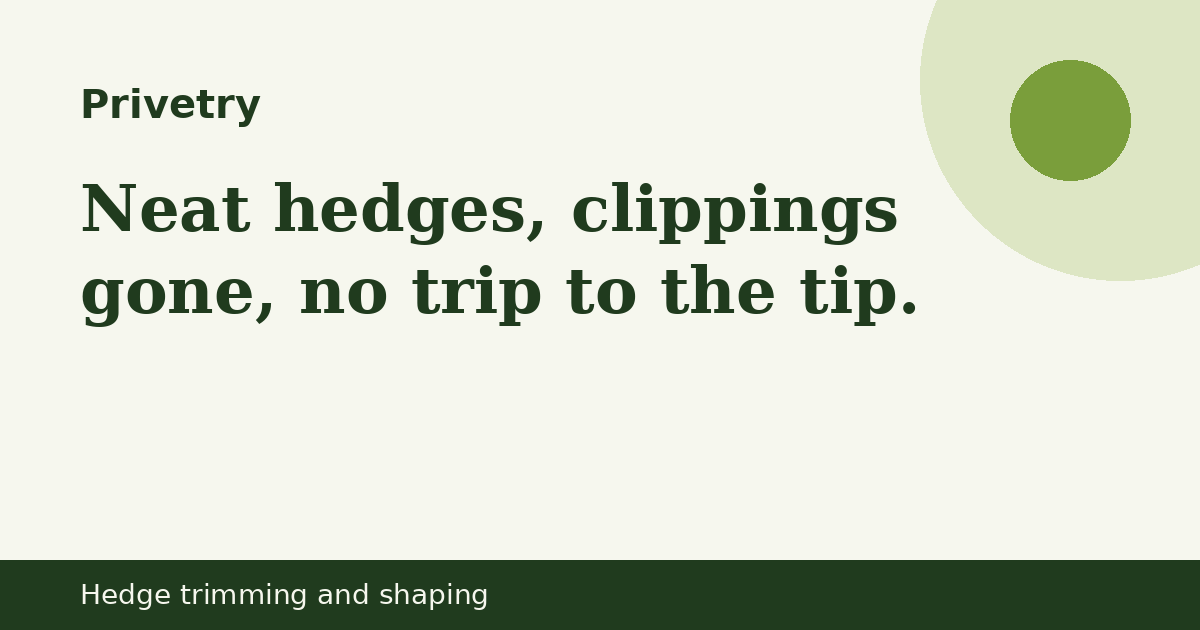
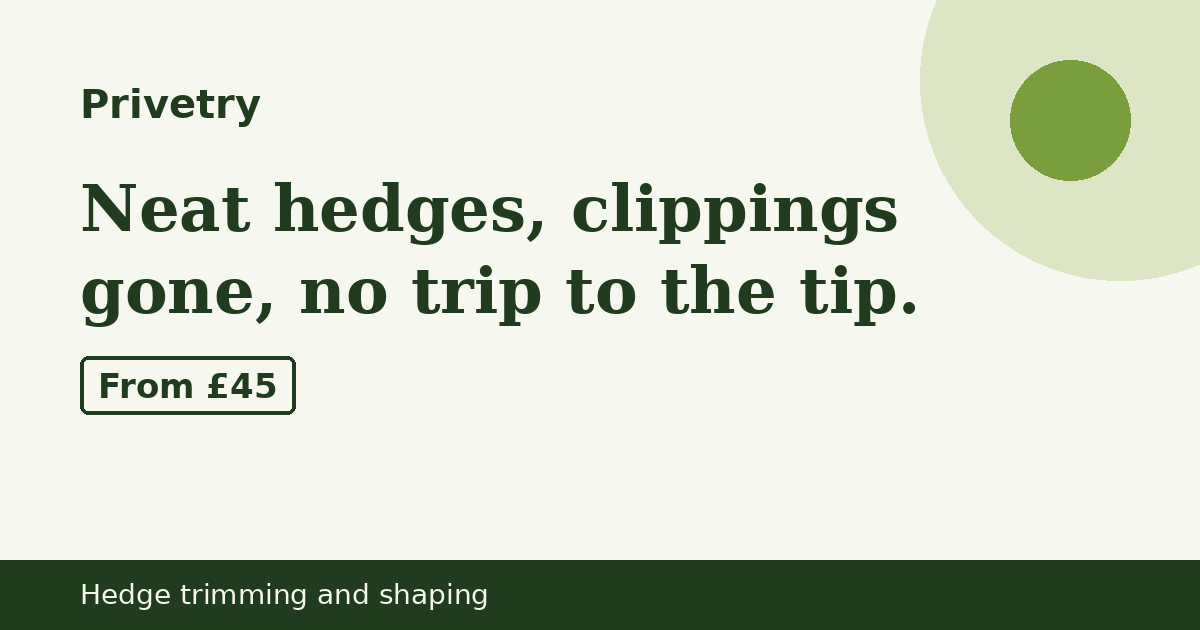
Publish site 2026-10-21 08:29 BST

Changed region(s): [[0.0617, 0.5429, 0.2467, 0.6635]]

diff --git a/index.html b/index.html
@@ -3,7 +3,7 @@
 <head>
 <meta charset="utf-8">
 <meta name="viewport" content="width=device-width, initial-scale=1">
-<meta http-equiv="Content-Security-Policy" content="default-src 'self'; img-src 'self' data: https://localreplyloop.goatcounter.com; style-src 'self'; script-src 'self'; font-src 'self'; connect-src 'self' https://formsubmit.co; form-action 'self'; base-uri 'self'; object-src 'none'">
+<meta http-equiv="Content-Security-Policy" content="default-src 'self'; img-src 'self' data: https://localreplyloop.goatcounter.com; style-src 'self'; script-src 'self'; font-src 'self'; connect-src 'self'; form-action 'self'; base-uri 'self'; object-src 'none'">
 <meta name="referrer" content="strict-origin-when-cross-origin">
 <title>Privetry: Neat hedges, clippings gone, no trip to the tip</title>
 <meta name="description" content="Hedge trimming, reducing and shaping, with all clippings taken away the same day.">
@@ -21,21 +21,14 @@
 </head>
 <body>
 <a class="skip" href="#main">Skip to content</a>
-<header><div class="wrap top"><a class="brand" href="./"><svg viewBox="0 0 64 64" aria-hidden="true" width="34" height="34"><rect width="64" height="64" rx="16" fill="#203B1E"/><text x="32" y="43" text-anchor="middle" font-family="Georgia, serif" font-weight="700" font-size="30" fill="#F6F7EE">P</text><circle cx="50" cy="50" r="6" fill="#7A9E3B"/></svg>Privetry</a><nav aria-label="Primary"><a href="#how">How it works</a><a href="#faq">Questions</a><a href="#contact">Contact</a></nav></div></header><section class="hero"><div class="wrap"><div class="art"><svg viewBox="0 0 400 400" role="img" aria-label="Decorative pattern" class="motif" preserveAspectRatio="xMidYMid slice"><rect x="0" y="40" width="30" height="260" rx="15" fill="#DDE6C4"/><rect x="46" y="40" width="30" height="220" rx="15" fill="#203B1E"/><rect x="92" y="40" width="30" height="200" rx="15" fill="#7A9E3B"/><rect x="138" y="100" width="30" height="260" rx="15" fill="#203B1E"/><rect x="184" y="130" width="30" height="280" rx="15" fill="#DDE6C4"/><rect x="230" y="160" width="30" height="240" rx="15" fill="#203B1E"/><rect x="276" y="160" width="30" height="220" rx="15" fill="#7A9E3B"/><rect x="322" y="100" width="30" height="200" rx="15" fill="#203B1E"/><rect x="368" y="70" width="30" height="200" rx="15" fill="#DDE6C4"/></svg></div><span class="draft">Taking enquiries ahead of launch; no bookings are confirmed yet. We&#x27;ll reply about availability.</span><br><span class="eyebrow">Local service · pre-launch · Hedge trimming and shaping</span><h1>Neat hedges, clippings gone, no trip to the tip.</h1><p class="lede">Send us a couple of photos and rough lengths. We quote a fixed price, trim to the height and shape you want, and take every clipping away with us.</p><div class="ctas"><a class="btn" href="#contact" data-cta="hero">Send an enquiry</a><a class="btn ghost" href="#faq" data-cta="hero-secondary">Questions</a></div></div></section>
+<header><div class="wrap top"><a class="brand" href="./"><svg viewBox="0 0 64 64" aria-hidden="true" width="34" height="34"><rect width="64" height="64" rx="16" fill="#203B1E"/><text x="32" y="43" text-anchor="middle" font-family="Georgia, serif" font-weight="700" font-size="30" fill="#F6F7EE">P</text><circle cx="50" cy="50" r="6" fill="#7A9E3B"/></svg>Privetry</a><nav aria-label="Primary"><a href="#how">How it works</a><a href="#faq">Questions</a><a href="#contact">Contact</a></nav></div></header>
 <main id="main">
-<section class="tint" id="how"><div class="wrap"><span class="eyebrow">How it works</span><h2>Hedge trimming, reducing and shaping, with all clippings taken away the same day.</h2><div class="steps"><div class="step"><h3>Send photos</h3><p>Two or three phone photos and the rough length of each hedge.</p></div><div class="step"><h3>Fixed quote back</h3><p>Price includes clippings removed. No surprises on the day.</p></div><div class="step"><h3>Trimmed and tidied</h3><p>Once launched, we sweep paths and lawns before we leave.</p></div></div></div></section>
-<section><div class="wrap"><span class="eyebrow">Who it is for</span><h2>For homeowners with hedges that have got away from them, including older residents.</h2><div class="points"><div class="point"><h3>Clippings removed</h3><p>Taken away the same day, disposed of as garden waste.</p></div><div class="point"><h3>Nesting season respected</h3><p>We check for active nests before cutting, as the law requires, and pause if we find one.</p></div><div class="point"><h3>Height you choose</h3><p>Tidy-up, reduce, or reshape. We&#x27;ll say if a big reduction is better split over two visits.</p></div></div></div></section>
-<section class="tint" id="price"><div class="wrap"><span class="eyebrow">Prices</span><div class="pricebox"><p class="price">From £45 for a short garden hedge (guide price; we quote from photos)</p><p>Guide price. Taking enquiries ahead of launch; no bookings are confirmed yet. We&#x27;ll confirm a fixed price and availability by email. Nothing is sold or paid for on this website.</p></div></div></section>
+<section class="hero"><div class="wrap"><div class="art"><svg viewBox="0 0 400 400" aria-hidden="true" focusable="false" class="motif"><rect x="40" y="180" width="320" height="180" rx="30" fill="#203B1E"/><path d="M40 200 q40 -60 80 0 q40 -60 80 0 q40 -60 80 0 q40 -60 80 0 v20 h-320z" fill="#203B1E"/><rect x="60" y="220" width="280" height="10" rx="5" fill="#DDE6C4"/><path d="M210 40 l70 90 -14 10 -70 -90z" fill="#7A9E3B"/><path d="M300 40 l-70 90 14 10 70 -90z" fill="#7A9E3B"/><circle cx="256" cy="140" r="22" fill="#DDE6C4"/><circle cx="256" cy="140" r="10" fill="#203B1E"/></svg></div><span class="draft">Taking enquiries ahead of launch. No bookings are confirmed yet.</span><br><span class="eyebrow">Local service · pre-launch · Hedge trimming and shaping</span><h1>Neat hedges, clippings gone, no trip to the tip.</h1><p class="lede">Send us a couple of photos and rough lengths. We quote a fixed price. Once launched, we&#x27;ll trim to the height and shape you want and bag every clipping.</p><div class="ctas"><a class="btn" href="#contact" data-cta="hero">Send an enquiry</a><a class="btn ghost" href="#faq" data-cta="hero-secondary">Questions</a></div></div></section>
+<section class="tint" id="how"><div class="wrap"><span class="eyebrow">How it works</span><h2>Hedge trimming, reducing and shaping, with all clippings taken away the same day.</h2><div class="steps"><div class="step"><h3>Send photos</h3><p>Two or three phone photos and the rough length of each hedge.</p></div><div class="step"><h3>Fixed quote back</h3><p>Price includes bagging clippings. No surprises on the day.</p></div><div class="step"><h3>Trimmed and tidied</h3><p>Once launched, we sweep paths and lawns before we leave.</p></div></div></div></section>
+<section><div class="wrap"><span class="eyebrow">Who it is for</span><h2>For homeowners with hedges that have got away from them, including older residents.</h2><div class="points"><div class="point"><h3>Clippings removed</h3><p>Once we&#x27;re registered as a waste carrier, we&#x27;ll take clippings away. Until then, we bag them for your garden waste bin or compost.</p></div><div class="point"><h3>Nesting season respected</h3><p>We check for active nests before cutting, as the law requires, and pause if we find one.</p></div><div class="point"><h3>Height you choose</h3><p>Tidy-up, reduce, or reshape. We&#x27;ll say if a big reduction is better split over two visits.</p></div></div></div></section>
+<section class="tint" id="price"><div class="wrap"><span class="eyebrow">Prices</span><div class="pricebox"><p class="price">From £45 for a short garden hedge (guide price; we quote from photos)</p><p>Guide price. Taking enquiries ahead of launch. No bookings are confirmed yet. Price and availability aren’t confirmed yet. Nothing is sold or paid for on this website.</p></div></div></section>
 <section id="faq"><div class="wrap"><span class="eyebrow">Questions</span><h2>Common questions</h2><details><summary>Can you cut my neighbour&#x27;s side?</summary><p>Only with their permission. We can give you a joint quote if you both agree.</p></details><details><summary>Do you cut trees?</summary><p>No. Hedges and shrubs only. For trees, use a qualified arborist.</p></details><details><summary>What about bird nests?</summary><p>If we find an active nest we stop work on that section and come back later at no extra charge.</p></details><p class="fine" style="margin-top:18px">Privetry trims hedges and shrubs. We do not carry out tree surgery or work near power lines.</p></div></section>
-<section class="tint" id="contact"><div class="wrap contact-grid"><div><span class="eyebrow">Contact</span><h2>Send an enquiry</h2><p>Privetry is new and run by one person. Every message is read and answered by email, usually within two working days.</p><p>Email: <a href="mailto:localreply+privetry@agentmail.to">localreply+privetry@agentmail.to</a></p></div><form class="form" data-contact data-formsubmit="localreply+privetry@agentmail.to" data-email="localreply+privetry@agentmail.to" data-subject="Privetry enquiry" novalidate>
-<div><label for="f-name">Your name</label><input id="f-name" name="name" autocomplete="name" required></div>
-<div><label for="f-email">Email</label><input id="f-email" name="email" type="email" autocomplete="email" required></div>
-<div><label for="f-postcode">Postcode or town</label><input id="f-postcode" name="postcode" autocomplete="postal-code"></div><div><label for="f-plan">About</label><select id="f-plan" name="plan"><option value="Trim and tidy">Trim and tidy</option><option value="Height reduction">Height reduction</option><option value="Regular visits">Regular visits</option></select></div>
-<div><label for="f-message">Message</label><textarea id="f-message" name="message"></textarea></div>
-<p class="draft">Taking enquiries ahead of launch; no bookings are confirmed yet. We&#x27;ll reply about availability.</p><p class="hint">Your message goes to our inbox through FormSubmit (formsubmit.co), our form-delivery provider. If that fails, your own email app opens instead. See our <a href="privacy.html">privacy notice</a>.</p>
-<button class="btn" type="submit">Send an enquiry</button>
-<p class="form-status" role="status" aria-live="polite"></p>
-</form></div></section>
+<section class="tint" id="contact"><div class="wrap contact-grid"><div><span class="eyebrow">Contact</span><h2>Send an enquiry</h2><p>Privetry is new and run by one person. Messages go to our inbox. We can’t promise a reply or a timeframe yet.</p><p>Email: <a href="mailto:localreply+privetry@agentmail.to">localreply+privetry@agentmail.to</a></p></div><div class="form contact-mail"><p><a class="btn" href="mailto:localreply+privetry@agentmail.to?subject=%5BPrivetry%5D%20Enquiry" data-cta="enquire">Email Privetry</a></p><p class="draft">Taking enquiries ahead of launch. No bookings are confirmed yet.</p><p class="hint">This opens your own email app. Nothing is sent through this website. See our <a href="privacy.html">privacy notice</a>.</p></div></div></section>
 </main><footer><div class="wrap"><p>Operated by a UK sole trader trading as Privetry. Contact: localreply+privetry@agentmail.to. Postal address available on written request.</p>
 <p><a href="privacy.html">Privacy</a><a href="terms.html">Terms</a><a href="./#contact">Contact</a></p>
 <p class="fine">Privetry trims hedges and shrubs. We do not carry out tree surgery or work near power lines.</p></div></footer>

diff --git a/privacy.html b/privacy.html
@@ -3,7 +3,7 @@
 <head>
 <meta charset="utf-8">
 <meta name="viewport" content="width=device-width, initial-scale=1">
-<meta http-equiv="Content-Security-Policy" content="default-src 'self'; img-src 'self' data: https://localreplyloop.goatcounter.com; style-src 'self'; script-src 'self'; font-src 'self'; connect-src 'self' https://formsubmit.co; form-action 'self'; base-uri 'self'; object-src 'none'">
+<meta http-equiv="Content-Security-Policy" content="default-src 'self'; img-src 'self' data: https://localreplyloop.goatcounter.com; style-src 'self'; script-src 'self'; font-src 'self'; connect-src 'self'; form-action 'self'; base-uri 'self'; object-src 'none'">
 <meta name="referrer" content="strict-origin-when-cross-origin">
 <title>Privacy notice | Privetry</title>
 <meta name="description" content="Privacy notice for Privetry.">
@@ -21,13 +21,13 @@
 </head>
 <body>
 <a class="skip" href="#main">Skip to content</a>
-<header><div class="wrap top"><a class="brand" href="./"><svg viewBox="0 0 64 64" aria-hidden="true" width="34" height="34"><rect width="64" height="64" rx="16" fill="#203B1E"/><text x="32" y="43" text-anchor="middle" font-family="Georgia, serif" font-weight="700" font-size="30" fill="#F6F7EE">P</text><circle cx="50" cy="50" r="6" fill="#7A9E3B"/></svg>Privetry</a><nav aria-label="Primary"><a href="#how">How it works</a><a href="#faq">Questions</a><a href="#contact">Contact</a></nav></div></header><main id="main"><section><div class="wrap legal"><h1>Privacy notice</h1><p class="fine">Last updated 19 October 2026</p>
+<header><div class="wrap top"><a class="brand" href="./"><svg viewBox="0 0 64 64" aria-hidden="true" width="34" height="34"><rect width="64" height="64" rx="16" fill="#203B1E"/><text x="32" y="43" text-anchor="middle" font-family="Georgia, serif" font-weight="700" font-size="30" fill="#F6F7EE">P</text><circle cx="50" cy="50" r="6" fill="#7A9E3B"/></svg>Privetry</a><nav aria-label="Primary"><a href="#how">How it works</a><a href="#faq">Questions</a><a href="#contact">Contact</a></nav></div></header><main id="main"><section><div class="wrap legal"><h1>Privacy notice</h1><p class="fine">Last updated 20 October 2026</p>
 <p><span>Operated by a UK sole trader trading as Privetry. Contact: localreply+privetry@agentmail.to. Postal address available on written request.</span> We are the controller for the personal data described here. For anything in this notice, email <a href="mailto:localreply+privetry@agentmail.to">localreply+privetry@agentmail.to</a> with “Privetry” in the subject line.</p>
-<h2>What we collect</h2><p>If you use the form or email us, we receive your name, email address, anything you write in your message and, if you give it, your postcode or town. We use it only to reply to you and, if you ask for it, to deal with your enquiry.</p>
+<h2>What we collect</h2><p>If you email us, we receive your name, email address, anything you write in your message and, if you give it, your postcode or town. We use it only to reply to you and, if you ask for it, to deal with your enquiry.</p>
 <h2>Lawful basis</h2><p>Replying to an enquiry you send us is in our legitimate interests, or steps taken at your request before any agreement (UK GDPR Article 6(1)(f) and 6(1)(b)).</p>
-<h2>Who processes it for us</h2><p>FormSubmit (formsubmit.co) delivers form messages to our inbox. AgentMail (agentmail.to) hosts the inbox. GitHub Pages hosts this website and may log technical data such as IP addresses for security. Some of these providers process data outside the UK under their own safeguards.</p>
+<h2>Who processes it for us</h2><p>AgentMail (agentmail.to) hosts our inbox. GitHub Pages hosts this website and may log technical data such as IP addresses for security. Some of these providers process data outside the UK under their own safeguards.</p>
 <h2>Cookies and analytics</h2><p>We set no cookies. We count page views with GoatCounter, which records the page, referrer and screen size but no cookies and no personal profile. It does not run if your browser sends Do Not Track or Global Privacy Control.</p>
-<h2>How long we keep it</h2><p>We keep enquiry emails for up to 12 months after our last contact, unless you become a customer, in which case we keep records as the law requires.</p>
+<h2>How long we keep it</h2><p>We delete enquiry and order data 30 days after our last contact or after delivery. We keep only the basic order record that tax law requires.</p>
 <h2>Your rights</h2><p>You can ask for a copy of your data, ask us to correct or delete it, or object to how we use it, by emailing <a href="mailto:localreply+privetry@agentmail.to">localreply+privetry@agentmail.to</a>. You can complain to the Information Commissioner's Office (ico.org.uk).</p></div></section></main><footer><div class="wrap"><p>Operated by a UK sole trader trading as Privetry. Contact: localreply+privetry@agentmail.to. Postal address available on written request.</p>
 <p><a href="privacy.html">Privacy</a><a href="terms.html">Terms</a><a href="./#contact">Contact</a></p>
 <p class="fine">Privetry trims hedges and shrubs. We do not carry out tree surgery or work near power lines.</p></div></footer>

diff --git a/assets/site.css b/assets/site.css
@@ -1,4 +1,4 @@
-:root{--ink:#203B1E;--paper:#F6F7EE;--acc:#7A9E3B;--acc-text:#58722A;--on-acc:#111111;--soft:#DDE6C4;--on-ink:#F6F7EE;--r:22px;--br:22px;--head:Georgia, 'Times New Roman', serif;--body:system-ui, -apple-system, 'Segoe UI', Roboto, sans-serif}
+:root{--ink:#203B1E;--paper:#F6F7EE;--acc:#7A9E3B;--acc-text:#536B28;--on-acc:#111111;--acc-btn:#7A9E3B;--soft:#DDE6C4;--on-ink:#F6F7EE;--r:22px;--br:22px;--head:Georgia, 'Times New Roman', serif;--body:system-ui, -apple-system, 'Segoe UI', Roboto, sans-serif}
 *,*::before,*::after{box-sizing:border-box}html{scroll-behavior:smooth}@media (prefers-reduced-motion:reduce){html{scroll-behavior:auto}*{transition:none!important}}
 body{margin:0;font-family:var(--body);color:var(--ink);background:var(--paper);line-height:1.6;font-size:17px;-webkit-font-smoothing:antialiased}
 h1,h2,h3{font-family:var(--head);line-height:1.15;margin:0 0 .5em;letter-spacing:-.01em}h1{font-size:clamp(2.1rem,5vw,3.6rem)}h2{font-size:clamp(1.5rem,3vw,2.2rem)}h3{font-size:1.15rem}
@@ -7,11 +7,11 @@ p{margin:0 0 1em}a{color:var(--ink);text-decoration-color:var(--acc);text-underl
 :focus-visible{outline:3px solid var(--acc);outline-offset:2px}
 .top{display:flex;align-items:center;justify-content:space-between;padding:18px 0;gap:16px}.brand{display:flex;align-items:center;gap:10px;font-family:var(--head);font-weight:700;font-size:1.25rem;text-decoration:none}
 .top nav a{margin-left:18px;font-size:.95rem;text-decoration:none}.top nav a:hover{text-decoration:underline}
-.btn{display:inline-block;background:var(--acc);color:var(--on-acc);padding:13px 22px;border-radius:var(--br);font-weight:600;text-decoration:none;border:2px solid var(--acc);cursor:pointer;font:inherit;font-weight:600}
-.btn:hover{filter:brightness(.94)}.btn.ghost{background:transparent;color:var(--ink);border-color:var(--ink)}
+.btn{display:inline-block;background:var(--acc-btn);color:var(--on-acc);padding:13px 22px;border-radius:var(--br);font-weight:600;text-decoration:none;border:2px solid var(--acc-btn);cursor:pointer;font:inherit;font-weight:600}
+.btn:hover{filter:none;box-shadow:inset 0 0 0 2px currentColor}.btn.ghost{background:transparent;color:var(--ink);border-color:var(--ink)}
 .eyebrow{display:inline-block;font-size:.8rem;letter-spacing:.12em;text-transform:uppercase;font-weight:600;color:var(--acc-text);margin-bottom:12px}
 .hero{padding:48px 0 64px}.hero .lede{font-size:1.15rem;max-width:40em}.ctas{display:flex;gap:12px;flex-wrap:wrap;margin-top:22px}
-.motif{width:100%;height:auto;max-width:420px;display:block}
+.motif{width:100%;height:auto;max-width:420px;display:block}.art{margin:0}
 .draft{display:inline-block;background:var(--soft);border:1px dashed var(--ink);padding:3px 10px;border-radius:999px;font-size:.82rem;font-weight:600;margin-bottom:14px}
 section{padding:56px 0}.tint{background:var(--soft)}
 .steps{display:grid;grid-template-columns:repeat(auto-fit,minmax(220px,1fr));gap:22px;counter-reset:s}
@@ -22,8 +22,8 @@ section{padding:56px 0}.tint{background:var(--soft)}
 details{border-bottom:1px solid color-mix(in srgb,var(--ink) 18%,transparent);padding:14px 0}summary{cursor:pointer;font-weight:600}details p{margin-top:10px}
 .form{display:grid;gap:14px;max-width:620px}.form label{font-weight:600;font-size:.95rem;display:block;margin-bottom:4px}
 .form input,.form textarea,.form select{width:100%;padding:12px;border:1.5px solid color-mix(in srgb,var(--ink) 40%,transparent);border-radius:calc(var(--r)/2);font:inherit;background:#fff;color:#111}
-.form textarea{min-height:120px}.hint,.fine{font-size:.88rem;opacity:.85}.form-status{font-weight:600}
-.contact-grid{display:grid;grid-template-columns:1fr 1.2fr;gap:40px}@media(max-width:800px){.contact-grid{grid-template-columns:1fr}.top nav{display:none}}
+.form textarea{min-height:120px}.hint,.fine{font-size:.88rem}.form-status{font-weight:600}
+.contact-grid{display:grid;grid-template-columns:1fr 1.2fr;gap:40px}@media(max-width:800px){.contact-grid{grid-template-columns:1fr}.top nav a:not([href="#contact"]){display:none}.top nav a{margin-left:0;padding:10px 0;font-weight:600}}
 footer{padding:36px 0 48px;font-size:.9rem;border-top:1px solid color-mix(in srgb,var(--ink) 15%,transparent)}footer a{margin-right:14px}
 .tool{background:var(--paper);border:2px solid var(--ink);border-radius:var(--r);padding:26px;max-width:640px}.tool .row{display:grid;grid-template-columns:1fr 140px;gap:12px;align-items:center;margin-bottom:10px}
 .tool input[type=number]{padding:10px;border:1.5px solid var(--ink);border-radius:8px;font:inherit;width:100%}.result{margin-top:16px;padding:16px;background:var(--soft);border-radius:calc(var(--r)/2);min-height:3em}

diff --git a/_shared/kit.js b/_shared/kit.js
@@ -69,24 +69,8 @@
     form.addEventListener("submit", function (e) {
       e.preventDefault();
       if (!form.reportValidity()) return;
-      // 2026-10-14: if data-formsubmit is set, deliver via FormSubmit.co straight to the brand inbox; mailto stays as fallback.
-      var fsTok = form.getAttribute("data-formsubmit");
-      if (fsTok && !form.__fsFallback && window.fetch) {
-        var fd = new FormData(form), payload = {}, st = form.querySelector("[role=status]");
-        fd.forEach(function (v, k) { if (k !== "consent") payload[k] = String(v); });
-        payload._subject = (form.getAttribute("data-subject") || "Enquiry") + (payload.business ? " — " + payload.business : "");
-        if (payload.email) payload._replyto = payload.email;
-        payload._captcha = "false"; payload._template = "table";
-        fetch("https://formsubmit.co/ajax/" + fsTok, { method: "POST", headers: { "Content-Type": "application/json", "Accept": "application/json" }, body: JSON.stringify(payload) })
-          .then(function (r) { return r.json(); })
-          .then(function (j) {
-            if (String(j.success) !== "true") throw new Error("fs");
-            if (st) { st.textContent = "Thanks" + (payload.name ? ", " + payload.name.trim().split(" ")[0] : "") + " — your message has been sent. We reply by email."; st.classList.add("is-visible"); }
-            track("contact_sent", { plan: payload.plan || null }); form.reset();
-          })
-          .catch(function () { form.__fsFallback = true; if (st) { st.textContent = "Sending didn't work — opening your email app instead."; st.classList.add("is-visible"); } form.requestSubmit ? form.requestSubmit() : form.dispatchEvent(new Event("submit", { cancelable: true })); });
-        return;
-      }
+      // The form only composes an email
+      // in the visitor's own mail app; nothing is sent through any third-party form processor.
       var to = form.getAttribute("data-email") || cfg.contactEmail;
       var data = new FormData(form);
       var name = (data.get("name") || "").toString().trim();

diff --git a/_shared/kit.css b/_shared/kit.css
@@ -73,6 +73,7 @@ p { margin: 0; }
 .mobile-nav.is-open { display: block; }
 .mobile-nav a { display: flex; align-items: center; min-height: 52px; padding: 0 1.25rem; color: var(--text); text-decoration: none; font-weight: 500; border-bottom: 1px solid var(--line); }
 .mobile-nav .btn { margin: 1rem 1.25rem 1.25rem; display: flex; }
+.mobile-nav .btn--primary, .mobile-nav .btn--primary:hover { color: #fff; }
 @media (min-width: 60rem) {
   .nav { display: flex; }
   .site-header .header-cta { display: inline-flex; margin-left: .75rem; }
@@ -329,3 +330,8 @@ html[data-paused="true"] [data-cta="checkout"] { pointer-events: none; opacity: 
 @media (min-width: 60rem) { .pricing.pricing--single { grid-template-columns: 1fr; } }
 .tier-more { max-width: 64rem; margin: 1.25rem auto 0; text-align: center; color: var(--muted); font-size: .9375rem; line-height: 1.6; }
 .tier-more a { font-weight: 600; white-space: nowrap; }
+
+.site-header .header-link { display: inline-flex; color: var(--ink); font-weight: 600; text-decoration: underline; text-underline-offset: .2em; min-height: 44px; align-items: center; padding: 0 .25rem; }
+@media (max-width: 59.99rem) { .site-header .header-link { display: none; } }
+.btn-row .text-link { display: inline-flex; align-items: center; min-height: 48px; padding: 0 .25rem; color: var(--ink); font-weight: 600; text-decoration: underline; text-underline-offset: .2em; }
+.btn-row .text-link:hover, .site-header .header-link:hover { color: var(--accent-strong); }

diff --git a/404.html b/404.html
@@ -3,7 +3,7 @@
 <head>
 <meta charset="utf-8">
 <meta name="viewport" content="width=device-width, initial-scale=1">
-<meta http-equiv="Content-Security-Policy" content="default-src 'self'; img-src 'self' data: https://localreplyloop.goatcounter.com; style-src 'self'; script-src 'self'; font-src 'self'; connect-src 'self' https://formsubmit.co; form-action 'self'; base-uri 'self'; object-src 'none'">
+<meta http-equiv="Content-Security-Policy" content="default-src 'self'; img-src 'self' data: https://localreplyloop.goatcounter.com; style-src 'self'; script-src 'self'; font-src 'self'; connect-src 'self'; form-action 'self'; base-uri 'self'; object-src 'none'">
 <meta name="referrer" content="strict-origin-when-cross-origin">
 <title>Page not found | Privetry</title>
 <meta name="description" content="Page not found for Privetry.">

diff --git a/terms.html b/terms.html
@@ -3,7 +3,7 @@
 <head>
 <meta charset="utf-8">
 <meta name="viewport" content="width=device-width, initial-scale=1">
-<meta http-equiv="Content-Security-Policy" content="default-src 'self'; img-src 'self' data: https://localreplyloop.goatcounter.com; style-src 'self'; script-src 'self'; font-src 'self'; connect-src 'self' https://formsubmit.co; form-action 'self'; base-uri 'self'; object-src 'none'">
+<meta http-equiv="Content-Security-Policy" content="default-src 'self'; img-src 'self' data: https://localreplyloop.goatcounter.com; style-src 'self'; script-src 'self'; font-src 'self'; connect-src 'self'; form-action 'self'; base-uri 'self'; object-src 'none'">
 <meta name="referrer" content="strict-origin-when-cross-origin">
 <title>Terms of use | Privetry</title>
 <meta name="description" content="Terms of use for Privetry.">
